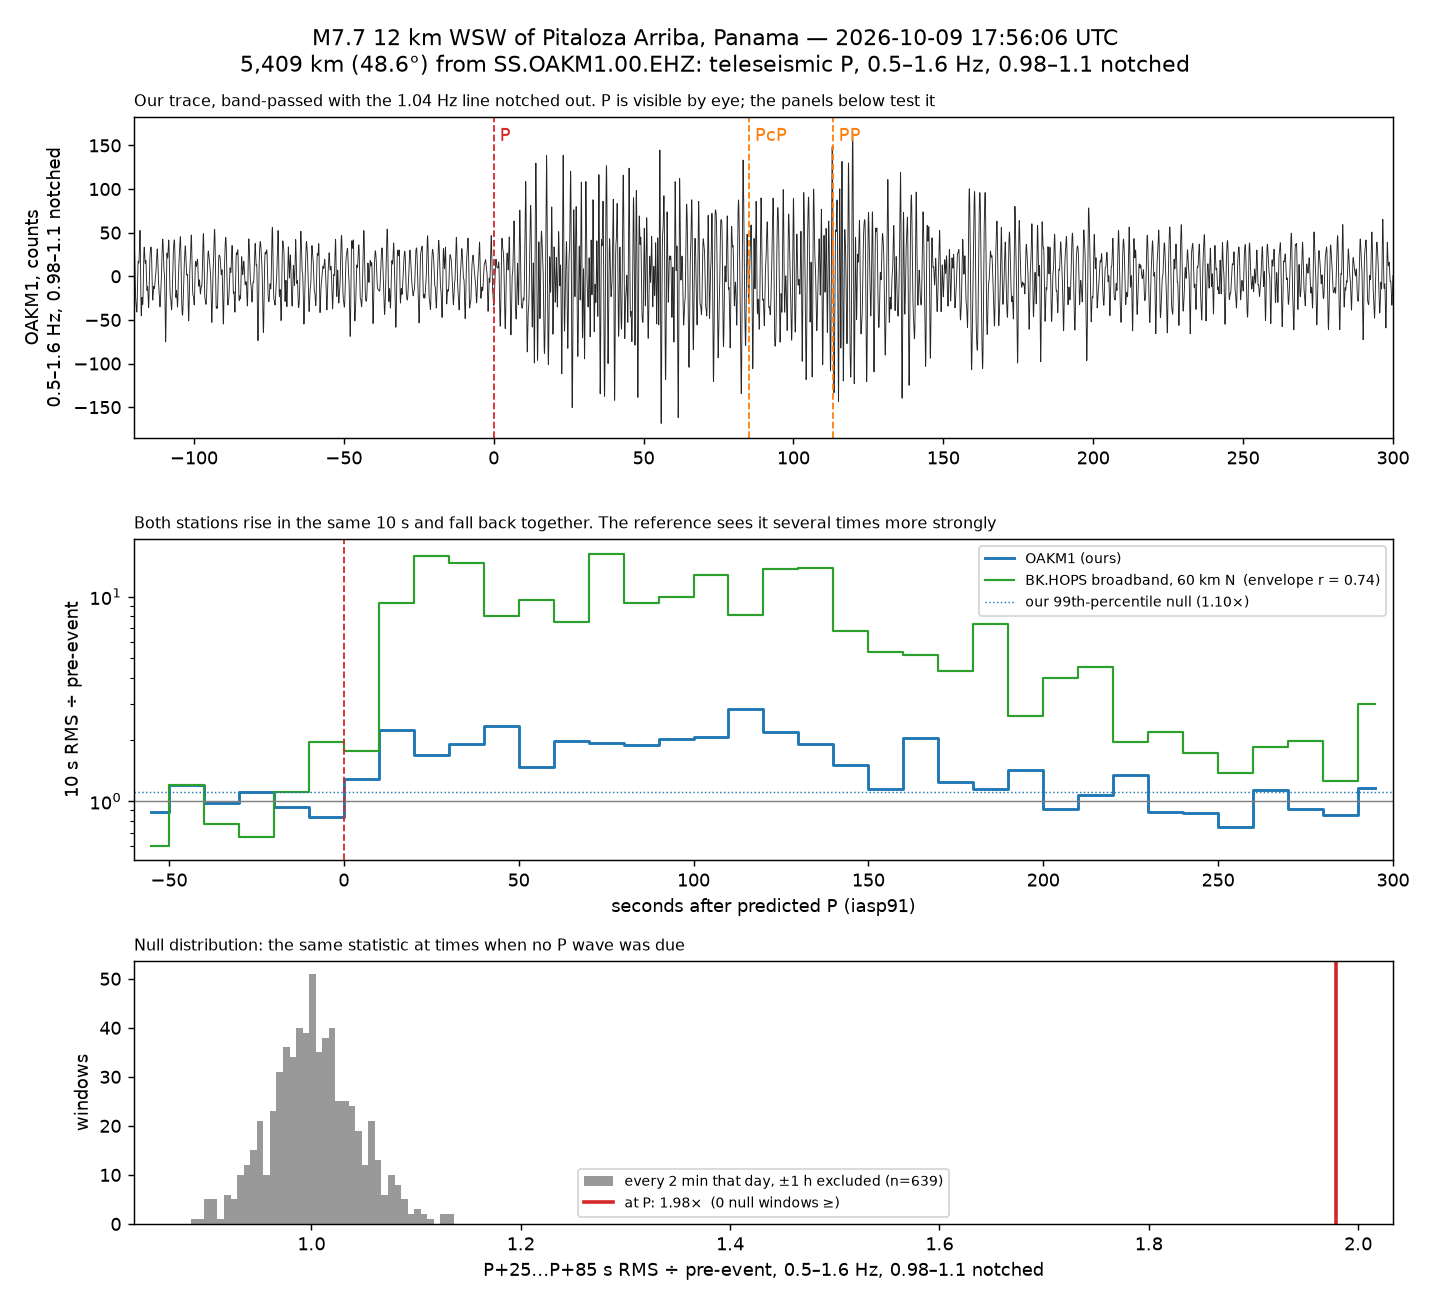
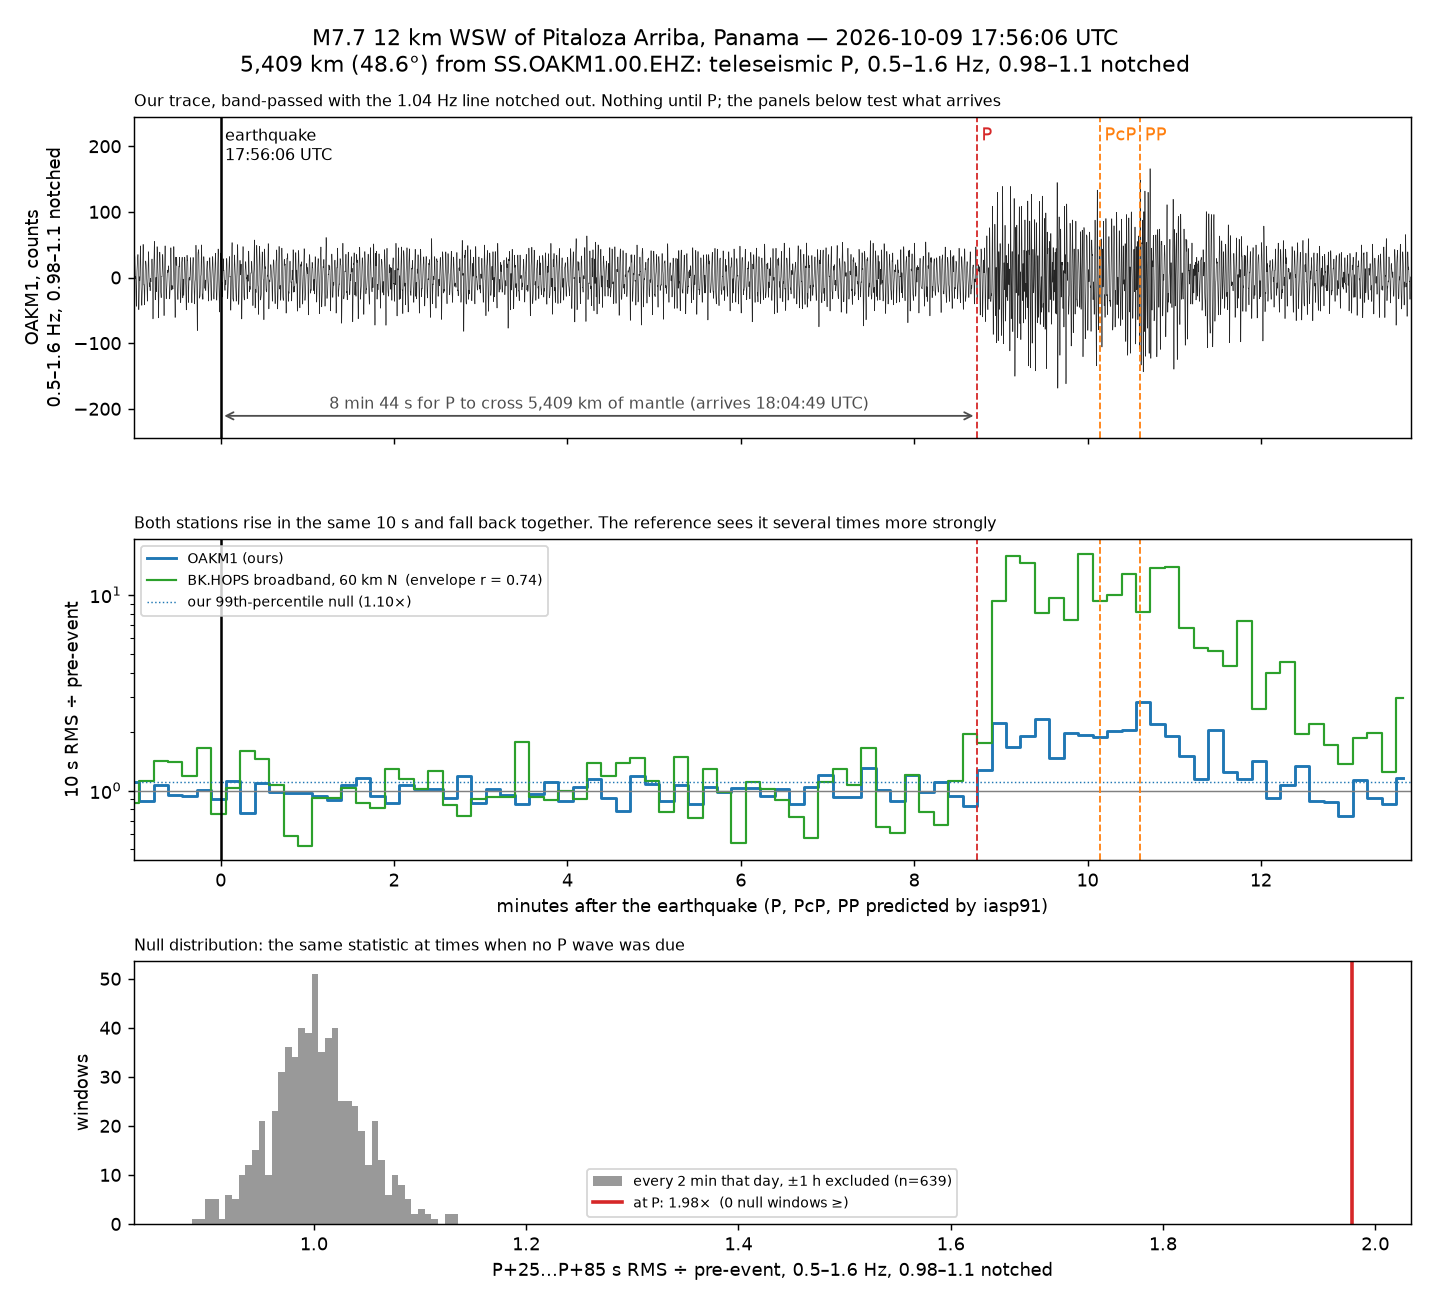
teleseism: plot from the origin, so the 8 min 44 s crossing shows
Top two panels now share one axis, minutes after the earthquake, with the
origin marked and the P travel time drawn as an arrow. Envelope bins stay
on the 10 s grid anchored at P.

diff --git a/analysis/teleseism_p.py b/analysis/teleseism_p.py
@@ -182,45 +182,72 @@ def main() -> None:
         print(f"  10 s envelope correlation with {ref.id}, P−60…P+300: {corr:.2f}")
 
     # --- figure ---
-    fig, axes = plt.subplots(3, 1, figsize=(11, 10),
-                             gridspec_kw={"height_ratios": [1.1, 1.1, 0.9]})
+    # The top two panels share one time axis, in minutes after the ORIGIN, so the
+    # 8-odd minutes the wave spent crossing the mantle are visible as the flat stretch
+    # between the earthquake line and the P line.
+    tp = (P - o) / 60                       # P travel time, minutes
+    xlo, xhi = -1.0, tp + 300 / 60
+    fig = plt.figure(figsize=(11, 10))
+    gs = fig.add_gridspec(3, 1, height_ratios=[1.1, 1.1, 0.9])
+    ax0 = fig.add_subplot(gs[0])
+    ax1 = fig.add_subplot(gs[1], sharex=ax0)
+    axes = [ax0, ax1, fig.add_subplot(gs[2])]
     fig.suptitle(f"M{a.mag} {a.label} — {o.strftime('%Y-%m-%d %H:%M:%S')} UTC\n"
                  f"{km:,.0f} km ({deg:.1f}°) from {ours.id}: teleseismic P, {BAND_LABEL}", fontsize=12)
 
+    def mark_times(ax, labels):
+        ax.axvline(0, color="k", lw=1.4)
+        for k, v in phases.items():
+            x = (v - o) / 60
+            if xlo <= x <= xhi:
+                ax.axvline(x, color="C3" if k == "P" else "C1", lw=1, ls="--")
+                if labels:
+                    ax.text(x + 0.05, 0.97, k, color="C3" if k == "P" else "C1",
+                            transform=ax.get_xaxis_transform(), va="top")
+
     ax = axes[0]
-    tr = ours.copy().slice(P - 700, P + 400)
+    tr = ours.copy().slice(o - 300, P + 400)
     tr.detrend("demean")
     tr.taper(0.05, max_length=30)
     tr.filter("bandpass", freqmin=P_BAND[0], freqmax=P_BAND[1], corners=4, zerophase=True)
     tr.filter("bandstop", freqmin=LINE_NOTCH[0], freqmax=LINE_NOTCH[1], corners=4, zerophase=True)
-    tt = tr.times(reftime=P)
-    keep = (tt >= -120) & (tt <= 300)
-    ax.plot(tt[keep], tr.data[keep], lw=0.5, color="0.15")
-    for k, v in phases.items():
-        if -120 <= v - P <= 300:
-            ax.axvline(v - P, color="C3" if k == "P" else "C1", lw=1, ls="--")
-            ax.text(v - P + 2, ax.get_ylim()[1] * 0.85, k, color="C3" if k == "P" else "C1")
-    ax.set_xlim(-120, 300)
+    tm = tr.times(reftime=o) / 60
+    keep = (tm >= xlo) & (tm <= xhi)
+    ax.plot(tm[keep], tr.data[keep], lw=0.35, color="0.15")
+    mark_times(ax, labels=True)
+    ax.text(0.05, 0.97, f"earthquake\n{o.strftime('%H:%M:%S')} UTC", transform=ax.get_xaxis_transform(),
+            va="top", fontsize=9)
+    ymax = np.abs(tr.data[keep]).max()
+    ax.set_ylim(-1.45 * ymax, 1.45 * ymax)
+    ax.annotate("", xy=(tp, -1.25 * ymax), xytext=(0, -1.25 * ymax),
+                arrowprops=dict(arrowstyle="<->", color="0.3", lw=1))
+    m_, s_ = divmod(round(P - o), 60)
+    ax.text(tp / 2, -1.22 * ymax, f"{m_} min {s_} s for P to cross {km:,.0f} km of mantle "
+            f"(arrives {P.strftime('%H:%M:%S')} UTC)", ha="center", va="bottom", fontsize=9, color="0.3")
     ax.set_ylabel(f"{ours.stats.station}, counts\n{BAND_LABEL}")
-    ax.set_title("Our trace, band-passed with the 1.04 Hz line notched out. P is visible by eye; the "
-                 "panels below test it", fontsize=9, loc="left")
+    ax.set_title("Our trace, band-passed with the 1.04 Hz line notched out. Nothing until P; "
+                 "the panels below test what arrives", fontsize=9, loc="left")
+    ax.tick_params(labelbottom=False)
 
     ax = axes[1]
-    mid = starts + STEP / 2
-    ax.step(mid, env, where="mid", color="C0", lw=1.6, label=f"{ours.stats.station} (ours)")
+    lead = STEP * np.ceil(((P - o) - xlo * 60) / STEP)   # keep the 10 s bins on the P grid
+    pstarts, penv = R.envelope(P, lead=lead, span=300)
+    mid = (P - o + pstarts + STEP / 2) / 60
+    ax.step(mid, penv, where="mid", color="C0", lw=1.6, label=f"{ours.stats.station} (ours)")
     if ref is not None:
-        ax.step(mid, renv, where="mid", color="C2", lw=1.2,
+        _, prenv = Ratios(ref, P_BAND, LINE_NOTCH).envelope(P, lead=lead, span=300)
+        ax.step(mid, prenv, where="mid", color="C2", lw=1.2,
                 label=f"{ref.stats.network}.{ref.stats.station} broadband, 60 km N"
                       + (f"  (envelope r = {corr:.2f})" if corr is not None else ""))
     ax.axhline(1, color="0.5", lw=0.8)
     ax.axhline(np.percentile(null, 99), color="C0", lw=0.8, ls=":",
                label=f"our 99th-percentile null ({np.percentile(null, 99):.2f}×)")
-    ax.axvline(0, color="C3", lw=1, ls="--")
+    mark_times(ax, labels=False)
     ax.set_yscale("log")
-    ax.set_xlim(-60, 300)
-    ax.set_ylabel(f"10 s RMS ÷ pre-event")
-    ax.set_xlabel("seconds after predicted P (iasp91)")
-    ax.legend(fontsize=8, loc="upper right")
+    ax.set_xlim(xlo, xhi)
+    ax.set_ylabel("10 s RMS ÷ pre-event")
+    ax.set_xlabel("minutes after the earthquake (P, PcP, PP predicted by iasp91)")
+    ax.legend(fontsize=8, loc="upper left")
     ax.set_title("Both stations rise in the same 10 s and fall back together. The "
                  "reference sees it several times more strongly", fontsize=9, loc="left")
 
